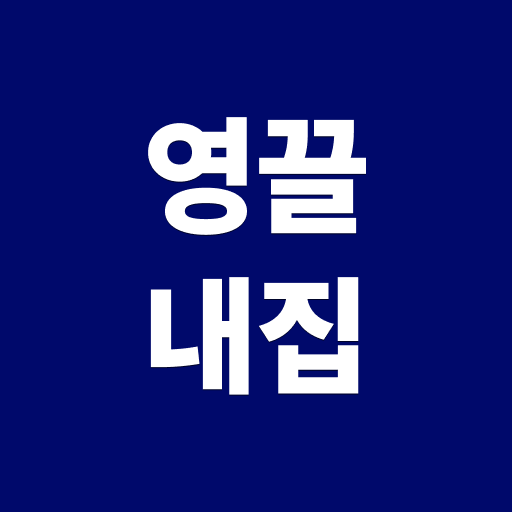
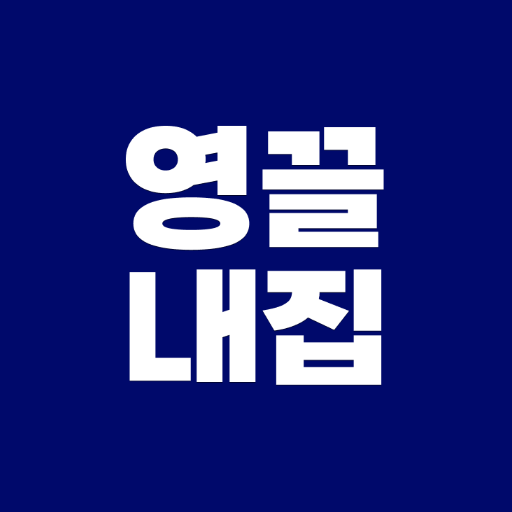
feat: 뒤로가기 정책, DSR/스트레스DSR, 입력 UX, 버전/빌드/배포, 아이콘 등 전반적 개선 및 유지보수

Changed region(s): [[0.25, 0.2188, 0.75, 0.7812]]

diff --git a/src/components/SettingScreen.jsx b/src/components/SettingScreen.jsx
@@ -32,7 +32,7 @@ function SettingScreen({ onBack, onShowPrivacy, onShowLicense }) {
         </ul>
         <div style={{color:'#888',fontSize:'0.95rem'}}>
           <div style={{fontWeight:400,marginBottom:'0.2rem'}}>Version</div>
-          <div style={{fontWeight:400}}>1.4.7</div>
+          <div style={{fontWeight:400}}>1.4.8</div>
         </div>
       </main>
     </div>
